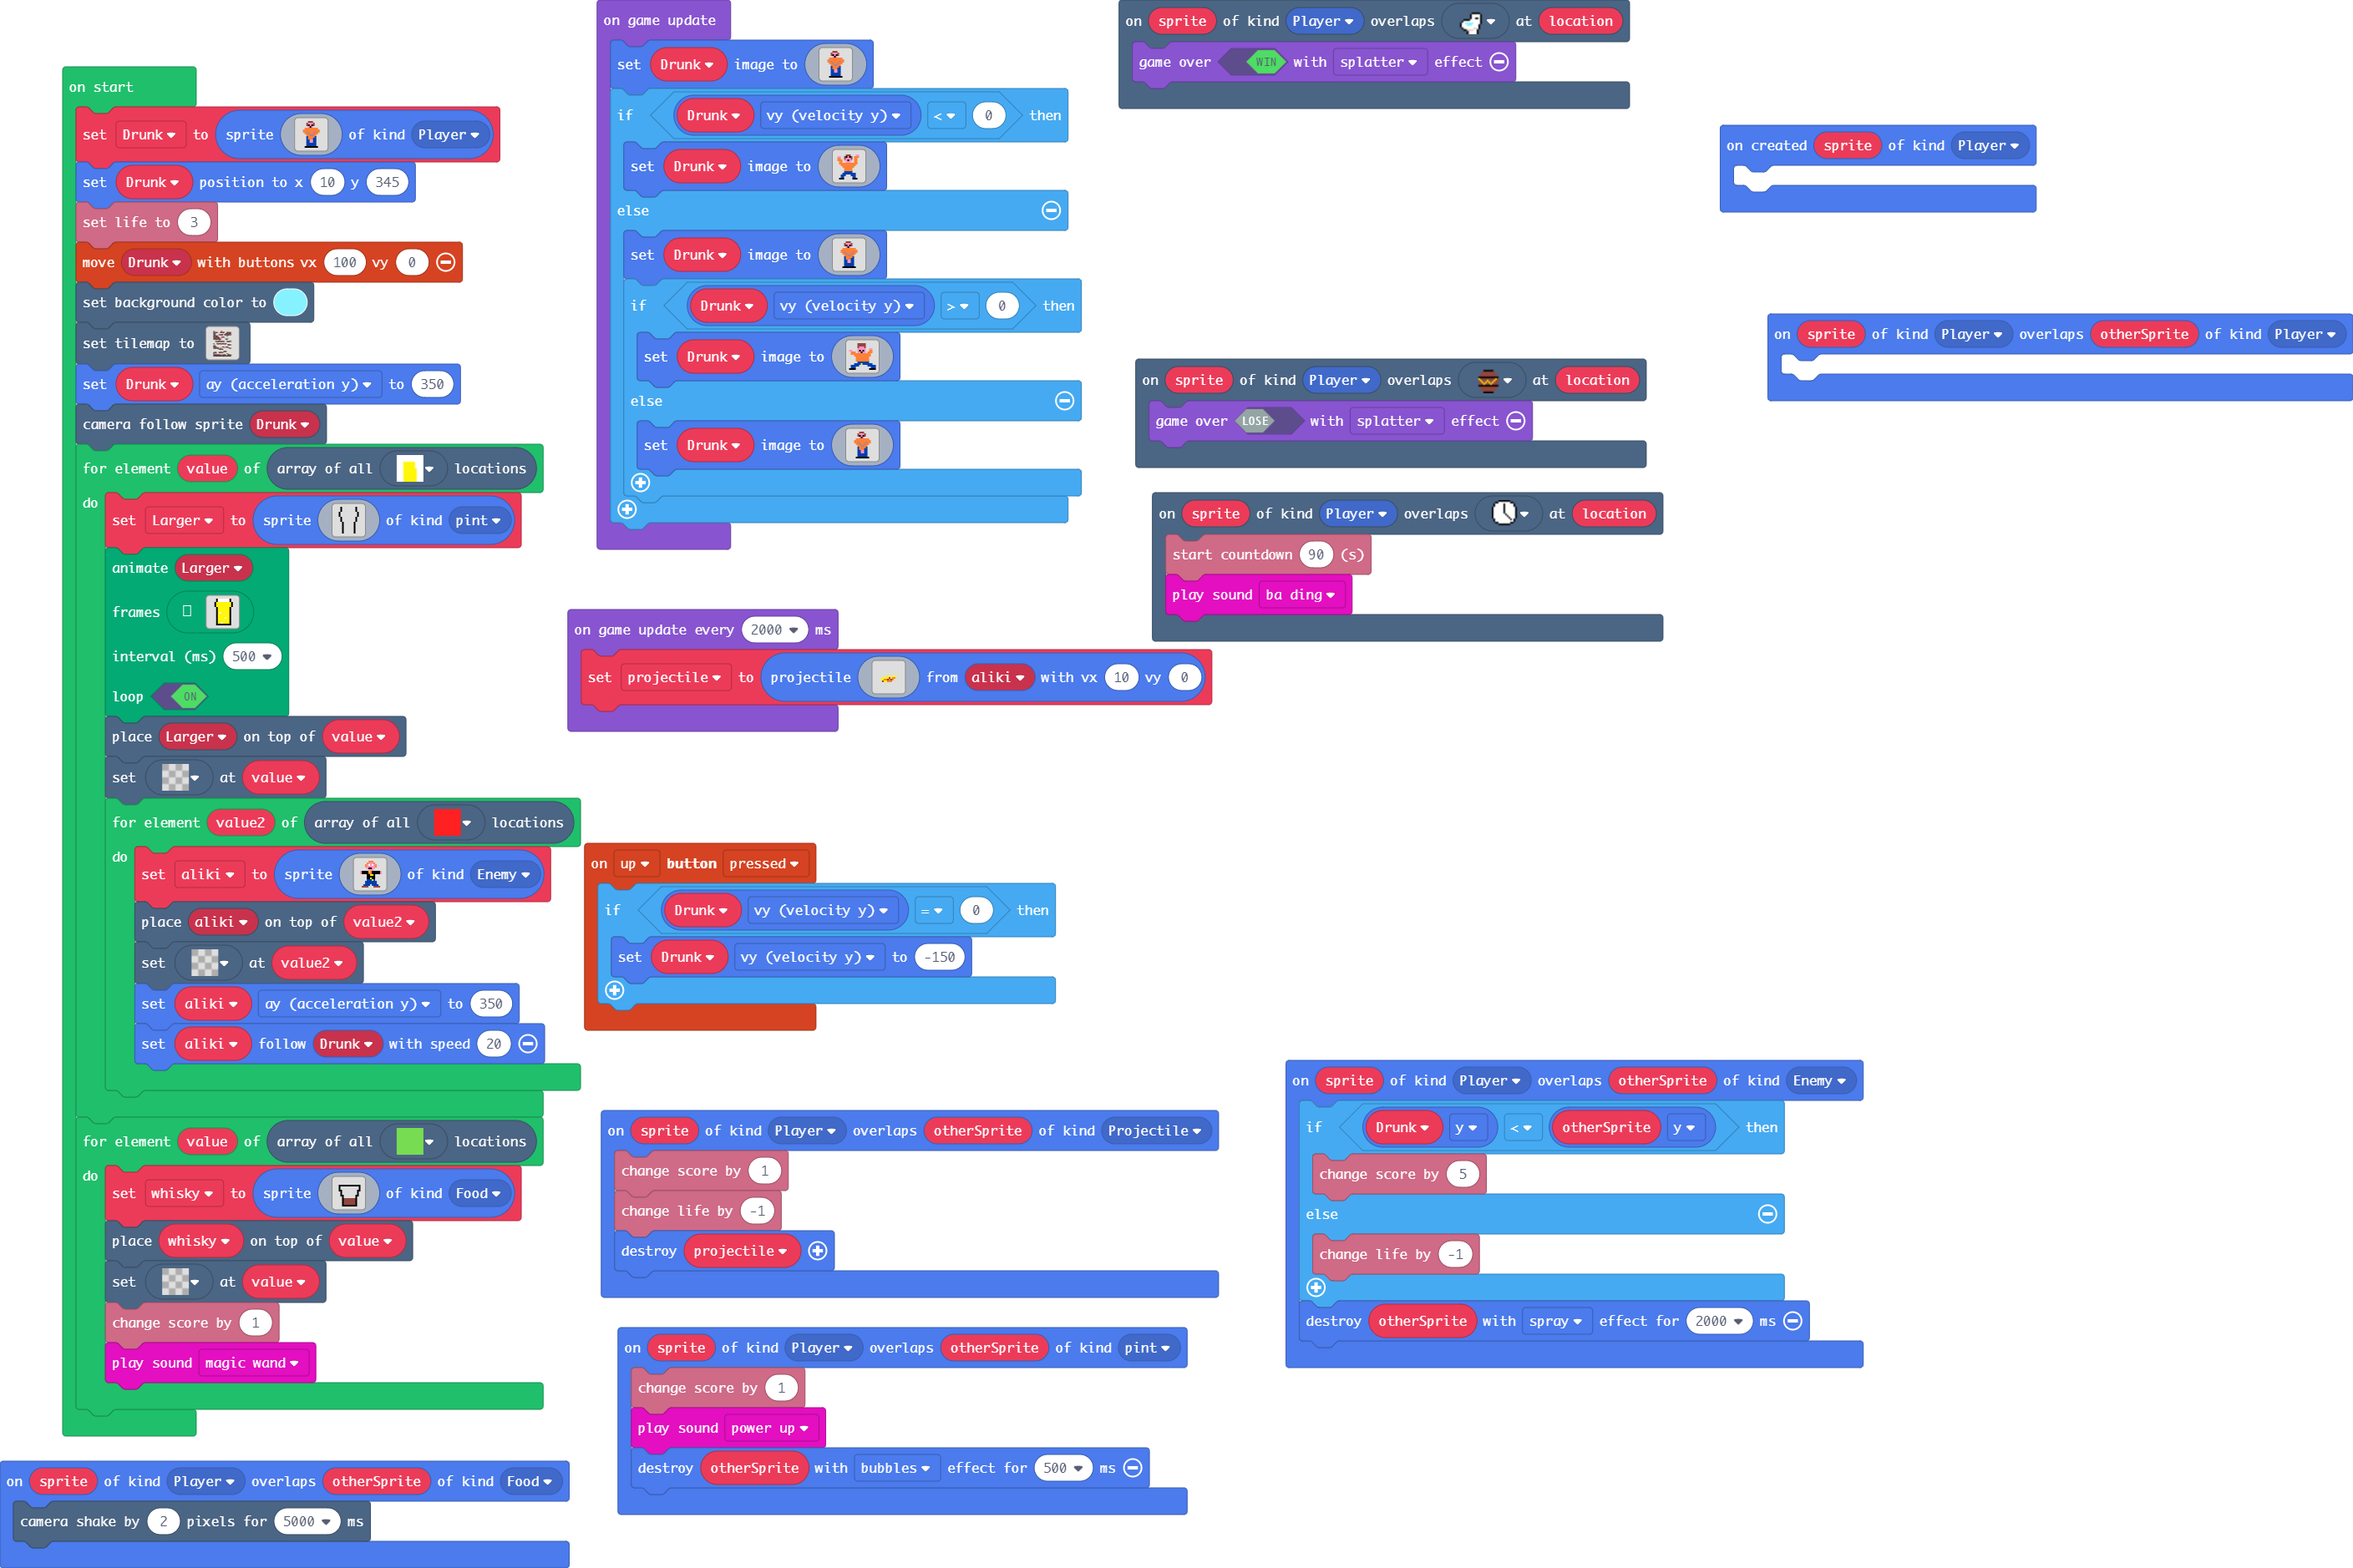
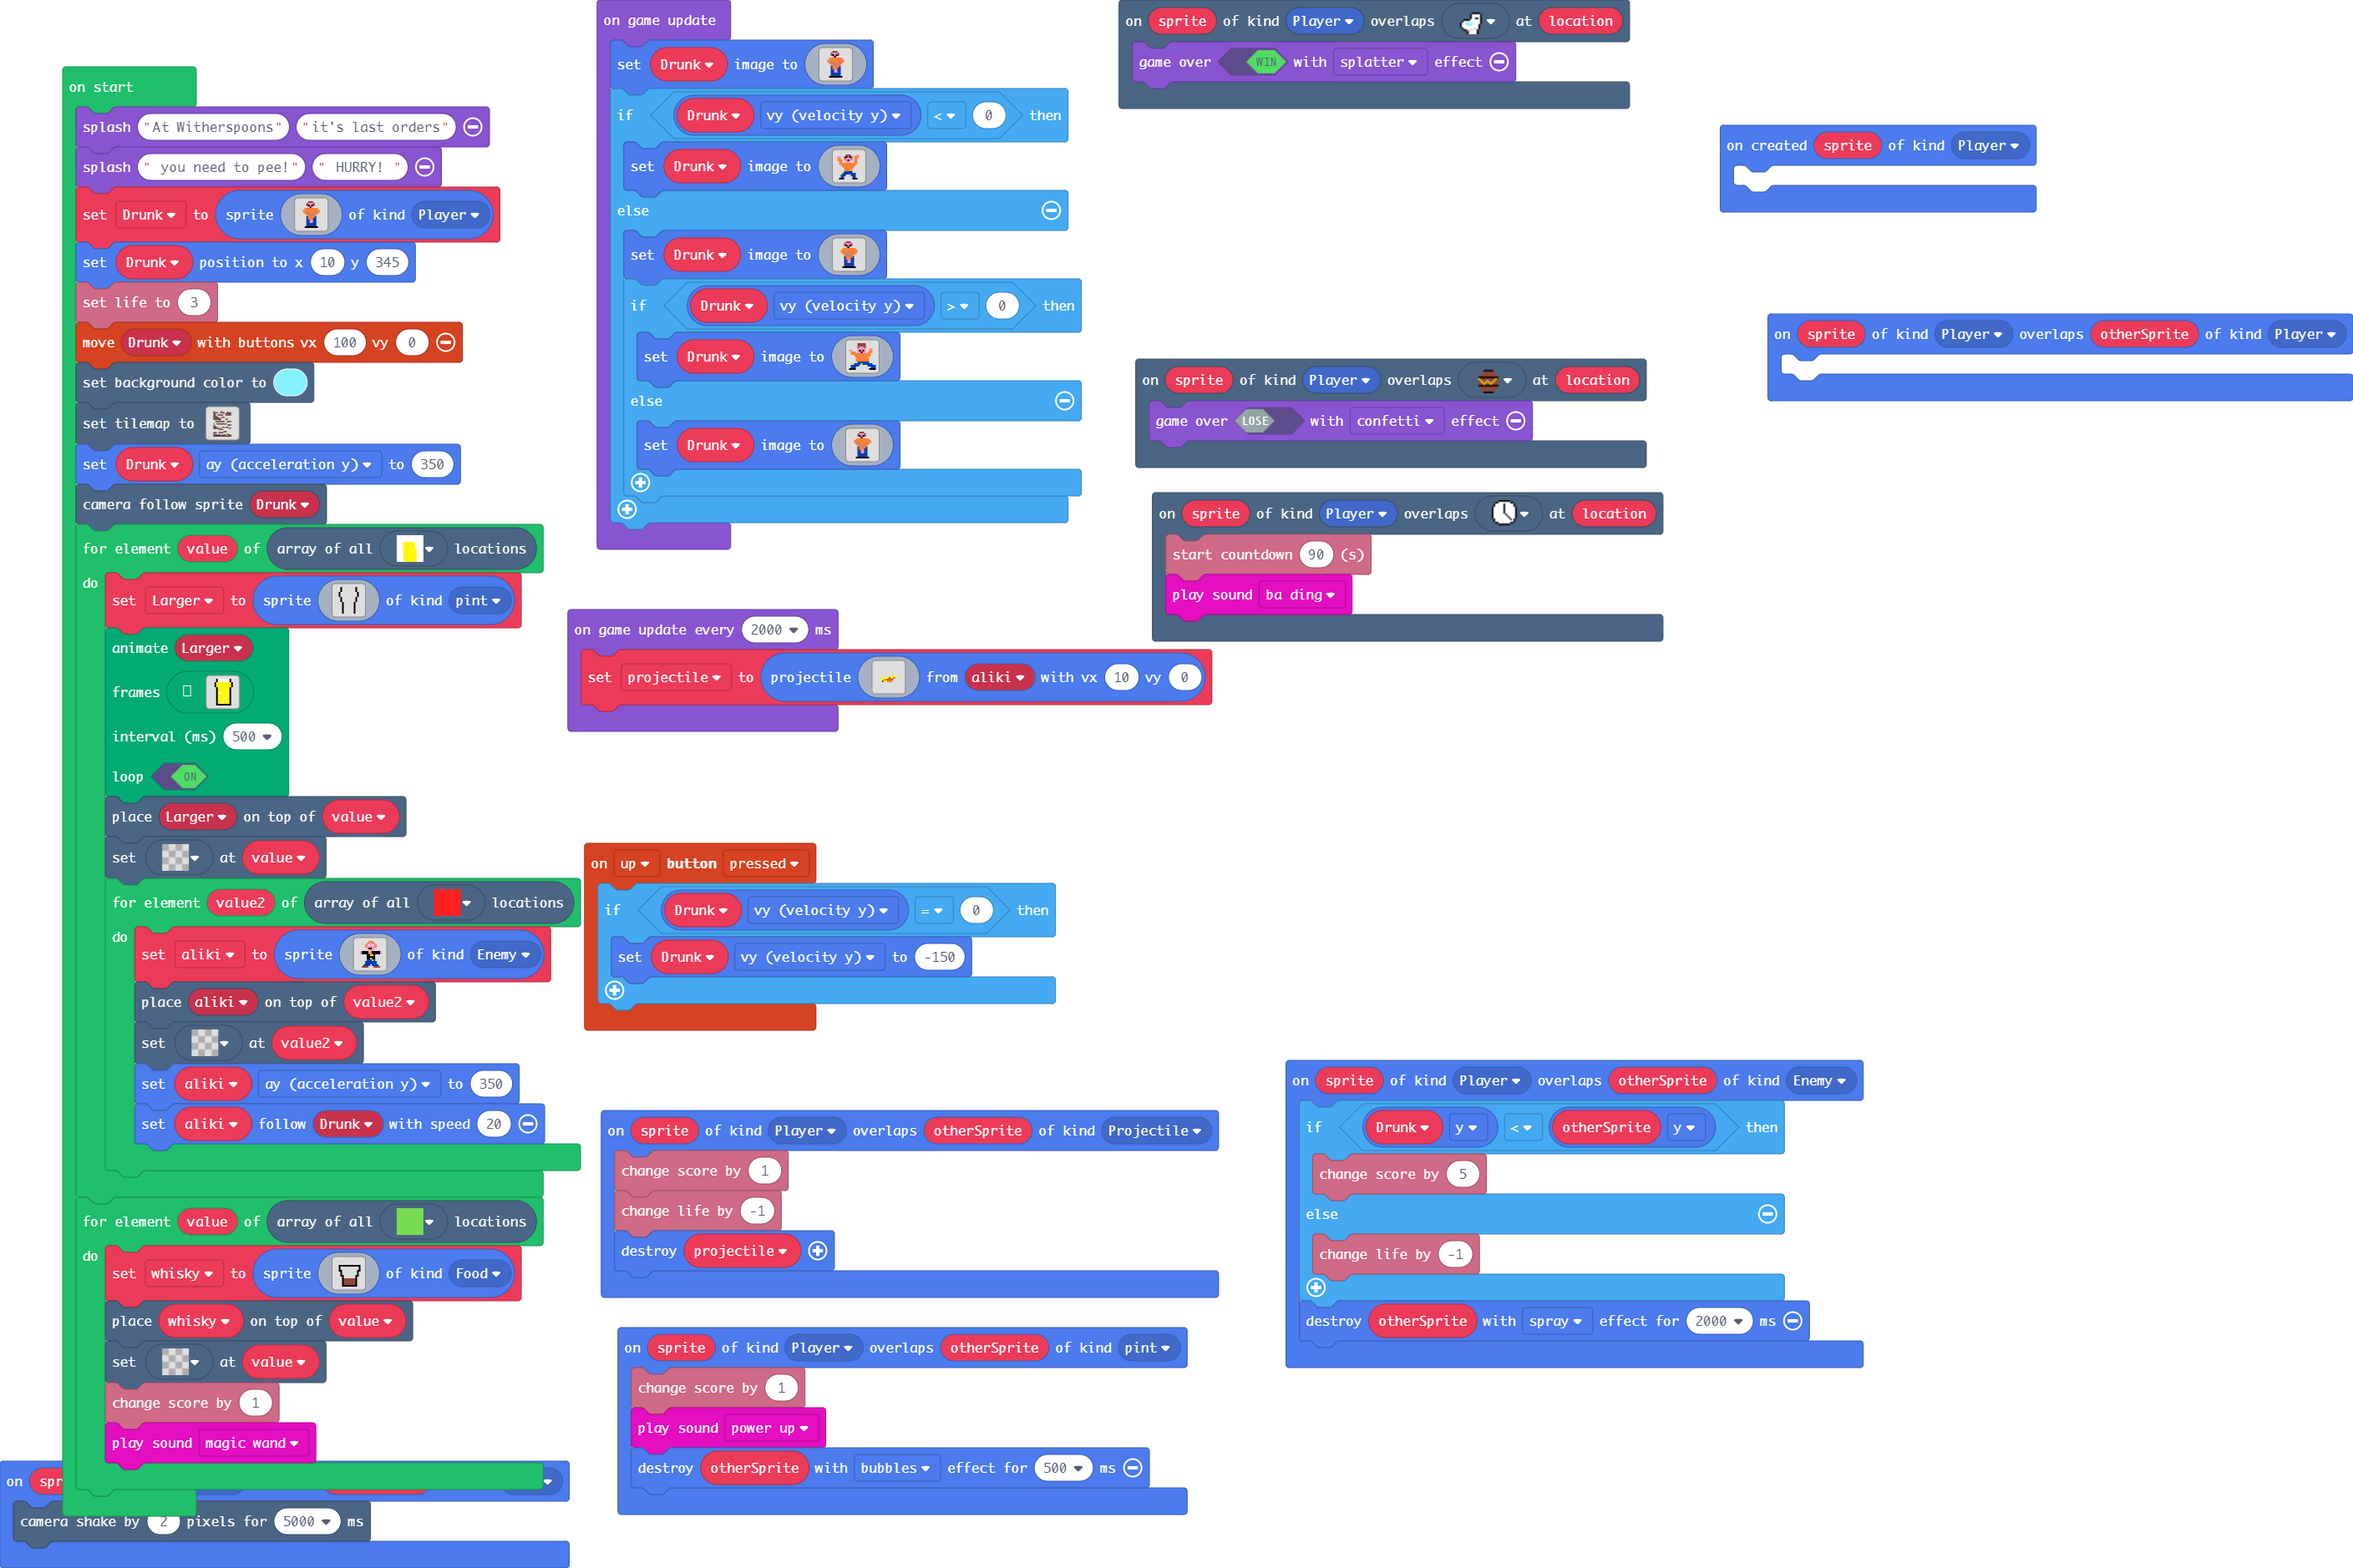
Update main.blocks, main.ts

Changed region(s): [[0.0, 0.0618, 0.2499, 0.9883]]

diff --git a/main.ts b/main.ts
@@ -277,7 +277,7 @@ scene.onOverlapTile(SpriteKind.Player, myTiles.tile8, function (sprite, location
     music.baDing.play()
 })
 scene.onOverlapTile(SpriteKind.Player, myTiles.tile7, function (sprite, location) {
-    game.over(false, effects.splatter)
+    game.over(false, effects.confetti)
 })
 sprites.onOverlap(SpriteKind.Player, SpriteKind.Player, function (sprite, otherSprite) {
 	
@@ -297,6 +297,8 @@ let whisky: Sprite = null
 let aliki: Sprite = null
 let Larger: Sprite = null
 let Drunk: Sprite = null
+game.splash("At Witherspoons", "it's last orders")
+game.splash(" you need to pee!", " HURRY! ")
 Drunk = sprites.create(img`
 . . . . . . e e e . . . . . . . 
 . . . . . e 3 3 3 e . . . . . . 
@@ -320,16 +322,16 @@ info.setLife(3)
 controller.moveSprite(Drunk, 100, 0)
 scene.setBackgroundColor(9)
 tiles.setTilemap(tiles.createTilemap(
[2 lines of base64/hex data omitted]
             img`
 . . . . . . . . . . . . . . . . 
 . . . . . . . . . . . . . . . . 
 2 2 2 2 . . 2 2 2 2 . . 2 2 . 2 
 . 2 . . . . . . . . . 2 . . . . 
-. 2 . . . 2 2 2 2 . 2 . . . . . 
-. . 2 2 . . . . . . . . . . . . 
-. . . . 2 . . . 2 2 . . . . . . 
-. . . . . 2 . . . . . . . . . . 
+. 2 . . 2 2 2 2 2 . . . . . . . 
+. . 2 . . . . . . . . . . . . . 
+. . 2 . . . . . 2 2 . . . . . . 
+. . 2 2 2 2 . . . . . . . . . . 
 . . . . . . 2 . . . . 2 2 . . . 
 . . . . . . . . . . . . . . . . 
 . . 2 2 2 2 2 2 2 2 . . 2 2 2 2 
@@ -344,7 +346,7 @@ tiles.setTilemap(tiles.createTilemap(
 . . . . . . . . . 2 2 2 . . . . 
 2 2 2 . . 2 2 2 2 . . . . . . . 
 . . . . . . . . . . . . 2 . . . 
-2 2 2 2 2 . 2 . . . . . . 2 2 2 
+2 2 2 2 2 . . . . . . . . 2 2 2 
 . . . . . . . . . . . . . . . . 
 `,
             [myTiles.tile0,myTiles.tile1,myTiles.tile2,myTiles.tile3,myTiles.tile4,myTiles.tile5,myTiles.tile6,myTiles.tile7,myTiles.tile8,myTiles.tile9,myTiles.tile10,myTiles.tile11,myTiles.tile12],
